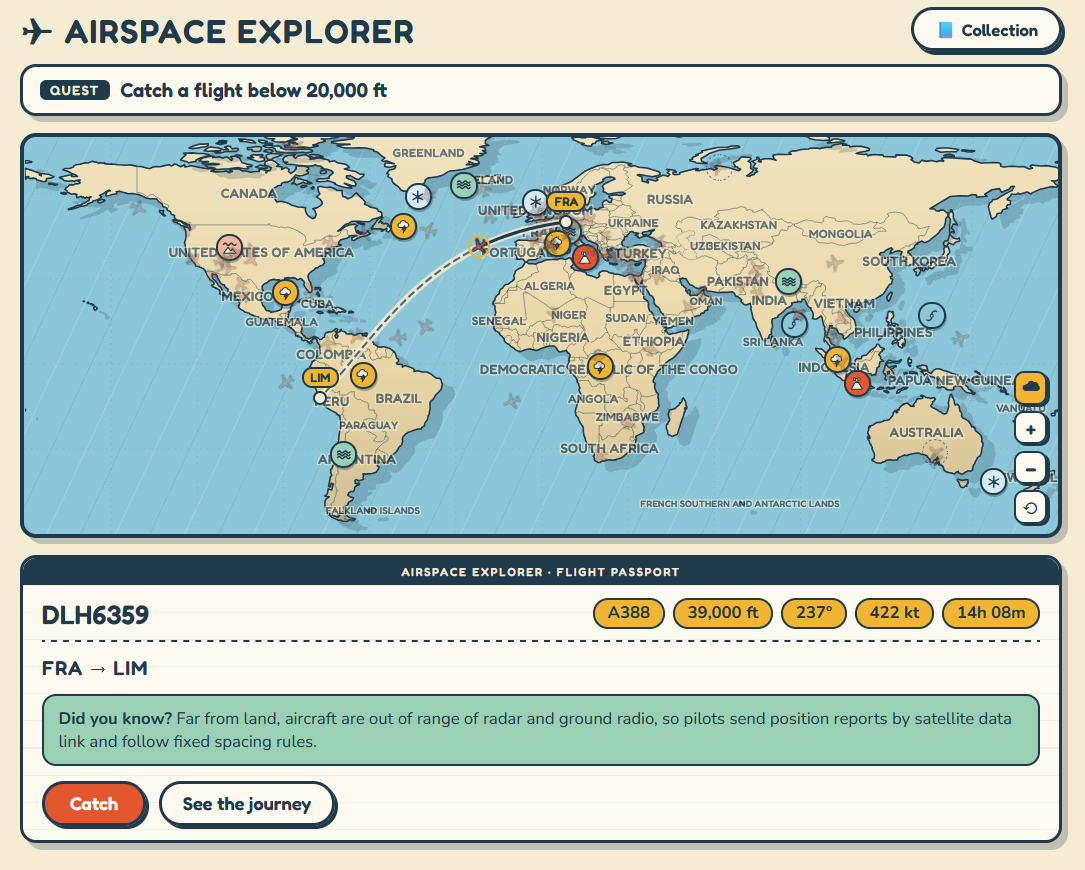
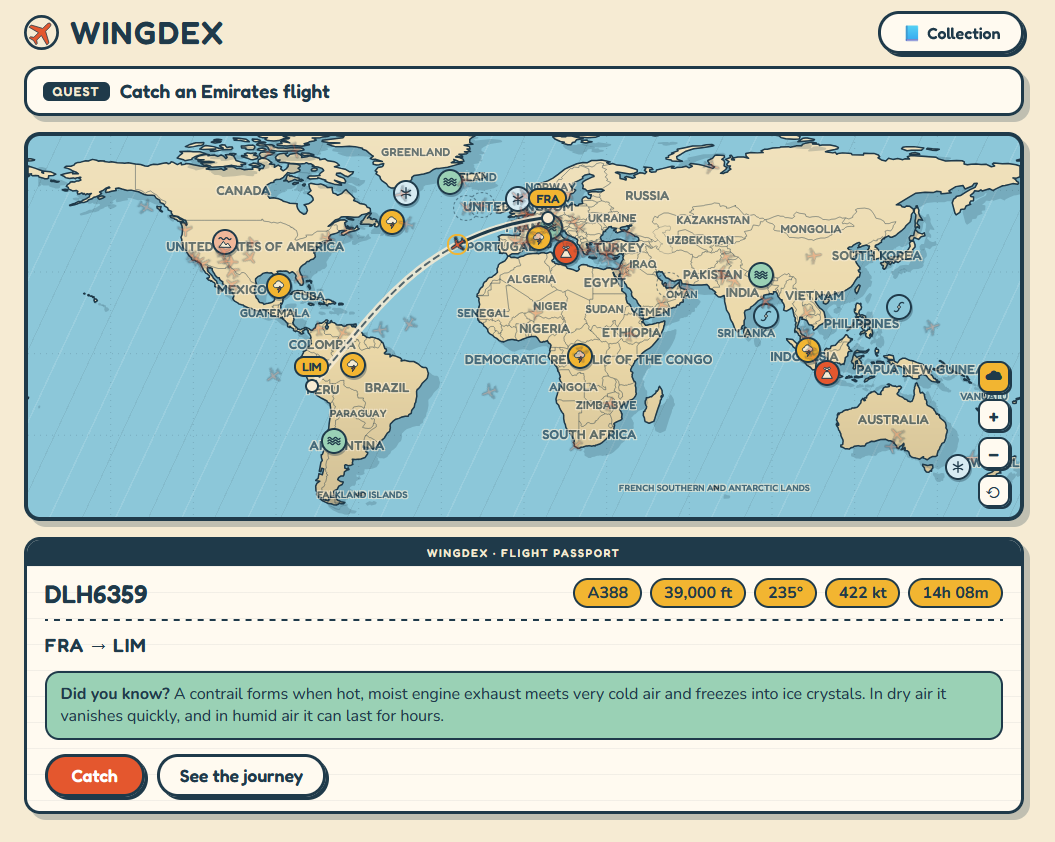
Rename the app to Wingdex
"Airspace Explorer" is already the name of a NATS flight-tracking app.
Wingdex is the collect-them-all dex plus earning your wings, which is
where the learning path is headed.

- The new name in the page title and description, the header, the card
  strip, the README (with the tagline "Spot planes. Catch them. Earn your
  wings."), CLAUDE.md, plan.md, ui-foundation.md, the package names, the
  API title and the weather User-Agent.
- A favicon: the app's own plane on a paper badge. It is also the logo in
  front of the title, which replaces the text ✈ (each device drew that in
  its own font). theme-color tints phone browser bars.
- The cat pilot wears a gold pilot's wings badge.
- The browser storage keys keep the old "airspace-explorer:" prefix on
  purpose: new keys would empty every existing Journal. Each says so.
- docs/history.md keeps the old name: it is history.
- New README screenshot and phone demo.

Checked: typecheck, lint, 377 tests, prettier and build pass; 207 backend
tests pass. The favicon was checked at 16, 32 and 128 px on light and dark
tabs, the mascot in its three moods.

Changed region(s): [[0.0, 0.0, 1.0, 0.9881], [0.5763, 0.5558, 0.7886, 0.5867]]

diff --git a/frontend/src/shared-ui/Mascot.tsx b/frontend/src/shared-ui/Mascot.tsx
@@ -1,6 +1,7 @@
 // The onboarding/quest-completion mascot: a chibi cat pilot, cropped like a
 // passport photo bust to tie into the card's own "Flight Passport" theme.
-// No idle animation, only the entrance transition its callers apply. `mood`
+// It wears a pilot's wings badge (the "earn your wings" in Wingdex). No idle
+// animation, only the entrance transition its callers apply. `mood`
 // swaps the face: 'talk' opens the mouth, 'cheer' adds happy ^ ^ eyes. It is
 // decorative (hidden from screen readers): both callers show their message as
 // text beside it.
@@ -29,6 +30,13 @@ export function Mascot({
         d="M68 74 C76 78 82 86 79 95 C75 88 70 84 65 80 Z"
         className="mascot-scarf"
       />
+      {/* Pilot's wings pinned on the chest: two swept wings and a round
+          centre, like the badge a pilot gets on qualifying. */}
+      <path
+        d="M46 90 C40 87 33 86 27 88 C32 91 38 93 46 93 Z M54 90 C60 87 67 86 73 88 C68 91 62 93 54 93 Z"
+        className="mascot-wings"
+      />
+      <circle cx="50" cy="91" r="4" className="mascot-wings" />
       {/* Ears, outer then a smaller inner triangle. */}
       <path d="M22 32 L30 8 L41 29 Z" className="mascot-fur" />
       <path d="M78 32 L70 8 L59 29 Z" className="mascot-fur" />

diff --git a/frontend/index.html b/frontend/index.html
@@ -3,7 +3,14 @@
   <head>
     <meta charset="UTF-8" />
     <meta name="viewport" content="width=device-width, initial-scale=1.0" />
-    <title>Airspace Explorer</title>
+    <meta
+      name="description"
+      content="Spot planes, catch them, earn your wings: a cosy plane-spotting game on real flight traffic, with a daily quest and a Journal of your catches."
+    />
+    <!-- Paper colour (--paper in styles/base.css) for phone browser bars. -->
+    <meta name="theme-color" content="#f6ebd3" />
+    <link rel="icon" type="image/svg+xml" href="/favicon.svg" />
+    <title>Wingdex</title>
   </head>
   <body>
     <div id="root"></div>

diff --git a/frontend/src/App.tsx b/frontend/src/App.tsx
@@ -139,7 +139,11 @@ function App() {
     // has-onboarding leaves room under the page for the docked mascot.
     <main className={onboarding.step ? 'has-onboarding' : undefined}>
       <div className="app-header">
-        <h1>✈ Airspace Explorer</h1>
+        <h1>
+          {/* The favicon doubles as the logo; decorative, the text names the app. */}
+          <img className="app-logo" src="/favicon.svg" alt="" />
+          Wingdex
+        </h1>
         <button
           className={`collection-btn${onboarding.step === 'done' ? ' nudge' : ''}`}
           onClick={() => setView(view === 'map' ? 'collection' : 'map')}

diff --git a/frontend/src/collection/badgesSeen.ts b/frontend/src/collection/badgesSeen.ts
@@ -3,6 +3,7 @@ import { isString, keepValid } from '../data/validate'
 // Which badges have already shown their unlock popup. Badge *unlocked*
 // state itself is never stored (see badges.ts) — only this "seen" set is,
 // so a badge that's already unlocked on first load doesn't pop up again.
+// Keeps the app's old name on purpose: a new key would lose saved progress.
 export const BADGES_SEEN_KEY = 'airspace-explorer:badges-seen:v1'
 
 export function saveSeenBadges(ids: string[]) {

diff --git a/frontend/src/card/FlightCard.tsx b/frontend/src/card/FlightCard.tsx
@@ -56,7 +56,7 @@ export function FlightCard({
       className="card passport-page"
       {...springIn({ scale: 0.6, opacity: 0 }, { scale: 1, opacity: 1 })}
     >
-      <p className="passport-strip">Airspace Explorer · Flight Passport</p>
+      <p className="passport-strip">Wingdex · Flight Passport</p>
       <header className="card-head">
         <h2>{flight.callsign}</h2>
         {flight.aircraft_type && (

diff --git a/frontend/src/collection/journal.ts b/frontend/src/collection/journal.ts
@@ -3,6 +3,7 @@ import { isJournalEntry, keepValid } from '../data/validate'
 
 // Versioned key: if the entry shape ever changes, bump to v2 instead of
 // loading old data that no longer fits.
+// Keeps the app's old name on purpose: a new key would lose saved progress.
 export const STORAGE_KEY = 'airspace-explorer:journal:v1'
 
 // Saves the whole Journal as JSON in localStorage.

diff --git a/frontend/src/onboarding/onboardingSeen.ts b/frontend/src/onboarding/onboardingSeen.ts
@@ -1,5 +1,6 @@
 // Whether the onboarding flow has already run once on this device. Same
 // pattern as badgesSeen.ts's seen-set, just a single flag.
+// Keeps the app's old name on purpose: a new key would lose saved progress.
 const ONBOARDING_SEEN_KEY = 'airspace-explorer:onboarding-seen:v1'
 
 export function hasSeenOnboarding(): boolean {

diff --git a/frontend/src/styles/shell.css b/frontend/src/styles/shell.css
@@ -8,6 +8,18 @@
   margin-bottom: 12px;
 }
 
+/* The logo badge in front of the title, sized with the title's text. */
+.app-header h1 {
+  display: flex;
+  align-items: center;
+  gap: 0.35em;
+}
+
+.app-logo {
+  width: 1.1em;
+  height: 1.1em;
+}
+
 /* Same paper-button look as .journey. */
 .collection-btn {
   padding: 8px 20px;

diff --git a/frontend/src/styles/mascot.css b/frontend/src/styles/mascot.css
@@ -34,6 +34,14 @@
   stroke-width: 2;
 }
 
+/* The pilot's wings badge on the chest: gold, like the goggles' lenses. */
+.mascot-wings {
+  fill: var(--highlight);
+  stroke: var(--ink);
+  stroke-width: 1.5;
+  stroke-linejoin: round;
+}
+
 .mascot-blush {
   fill: var(--accent);
   opacity: 0.45;

diff --git a/frontend/src/quest/dailyQuest.ts b/frontend/src/quest/dailyQuest.ts
@@ -6,6 +6,7 @@ export interface SavedQuest {
 }
 
 // Versioned key, same idea as the Journal's.
+// Keeps the app's old name on purpose: a new key would lose saved progress.
 export const QUEST_STORAGE_KEY = 'airspace-explorer:quest:v1'
 
 export function saveDailyQuest(saved: SavedQuest) {

diff --git a/backend/app/awc.py b/backend/app/awc.py
@@ -21,7 +21,7 @@ from app.snapshot import SnapshotCache
 log = logging.getLogger(__name__)
 
 ISIGMET_URL = "https://aviationweather.gov/api/data/isigmet"
-DEFAULT_USER_AGENT = "AirspaceExplorer/0.1"
+DEFAULT_USER_AGENT = "Wingdex/0.1"
 DEFAULT_CACHE_TTL_S = 300.0  # advisories change slowly; the feed itself refreshes each minute
 MIN_TTL_S = 60.0  # refreshes never come closer together than this
 FAILURE_BACKOFF_S = 60  # wait this long after a failed request before trying again

diff --git a/backend/app/main.py b/backend/app/main.py
@@ -106,7 +106,7 @@ async def lifespan(app: FastAPI) -> AsyncIterator[None]:
             factory.clear()
 
 
-app = FastAPI(title="Airspace Explorer API", lifespan=lifespan)
+app = FastAPI(title="Wingdex API", lifespan=lifespan)
 
 # The flight list is large and repetitive JSON; gzip shrinks it about 8x.
 app.add_middleware(GZipMiddleware, minimum_size=1000)
